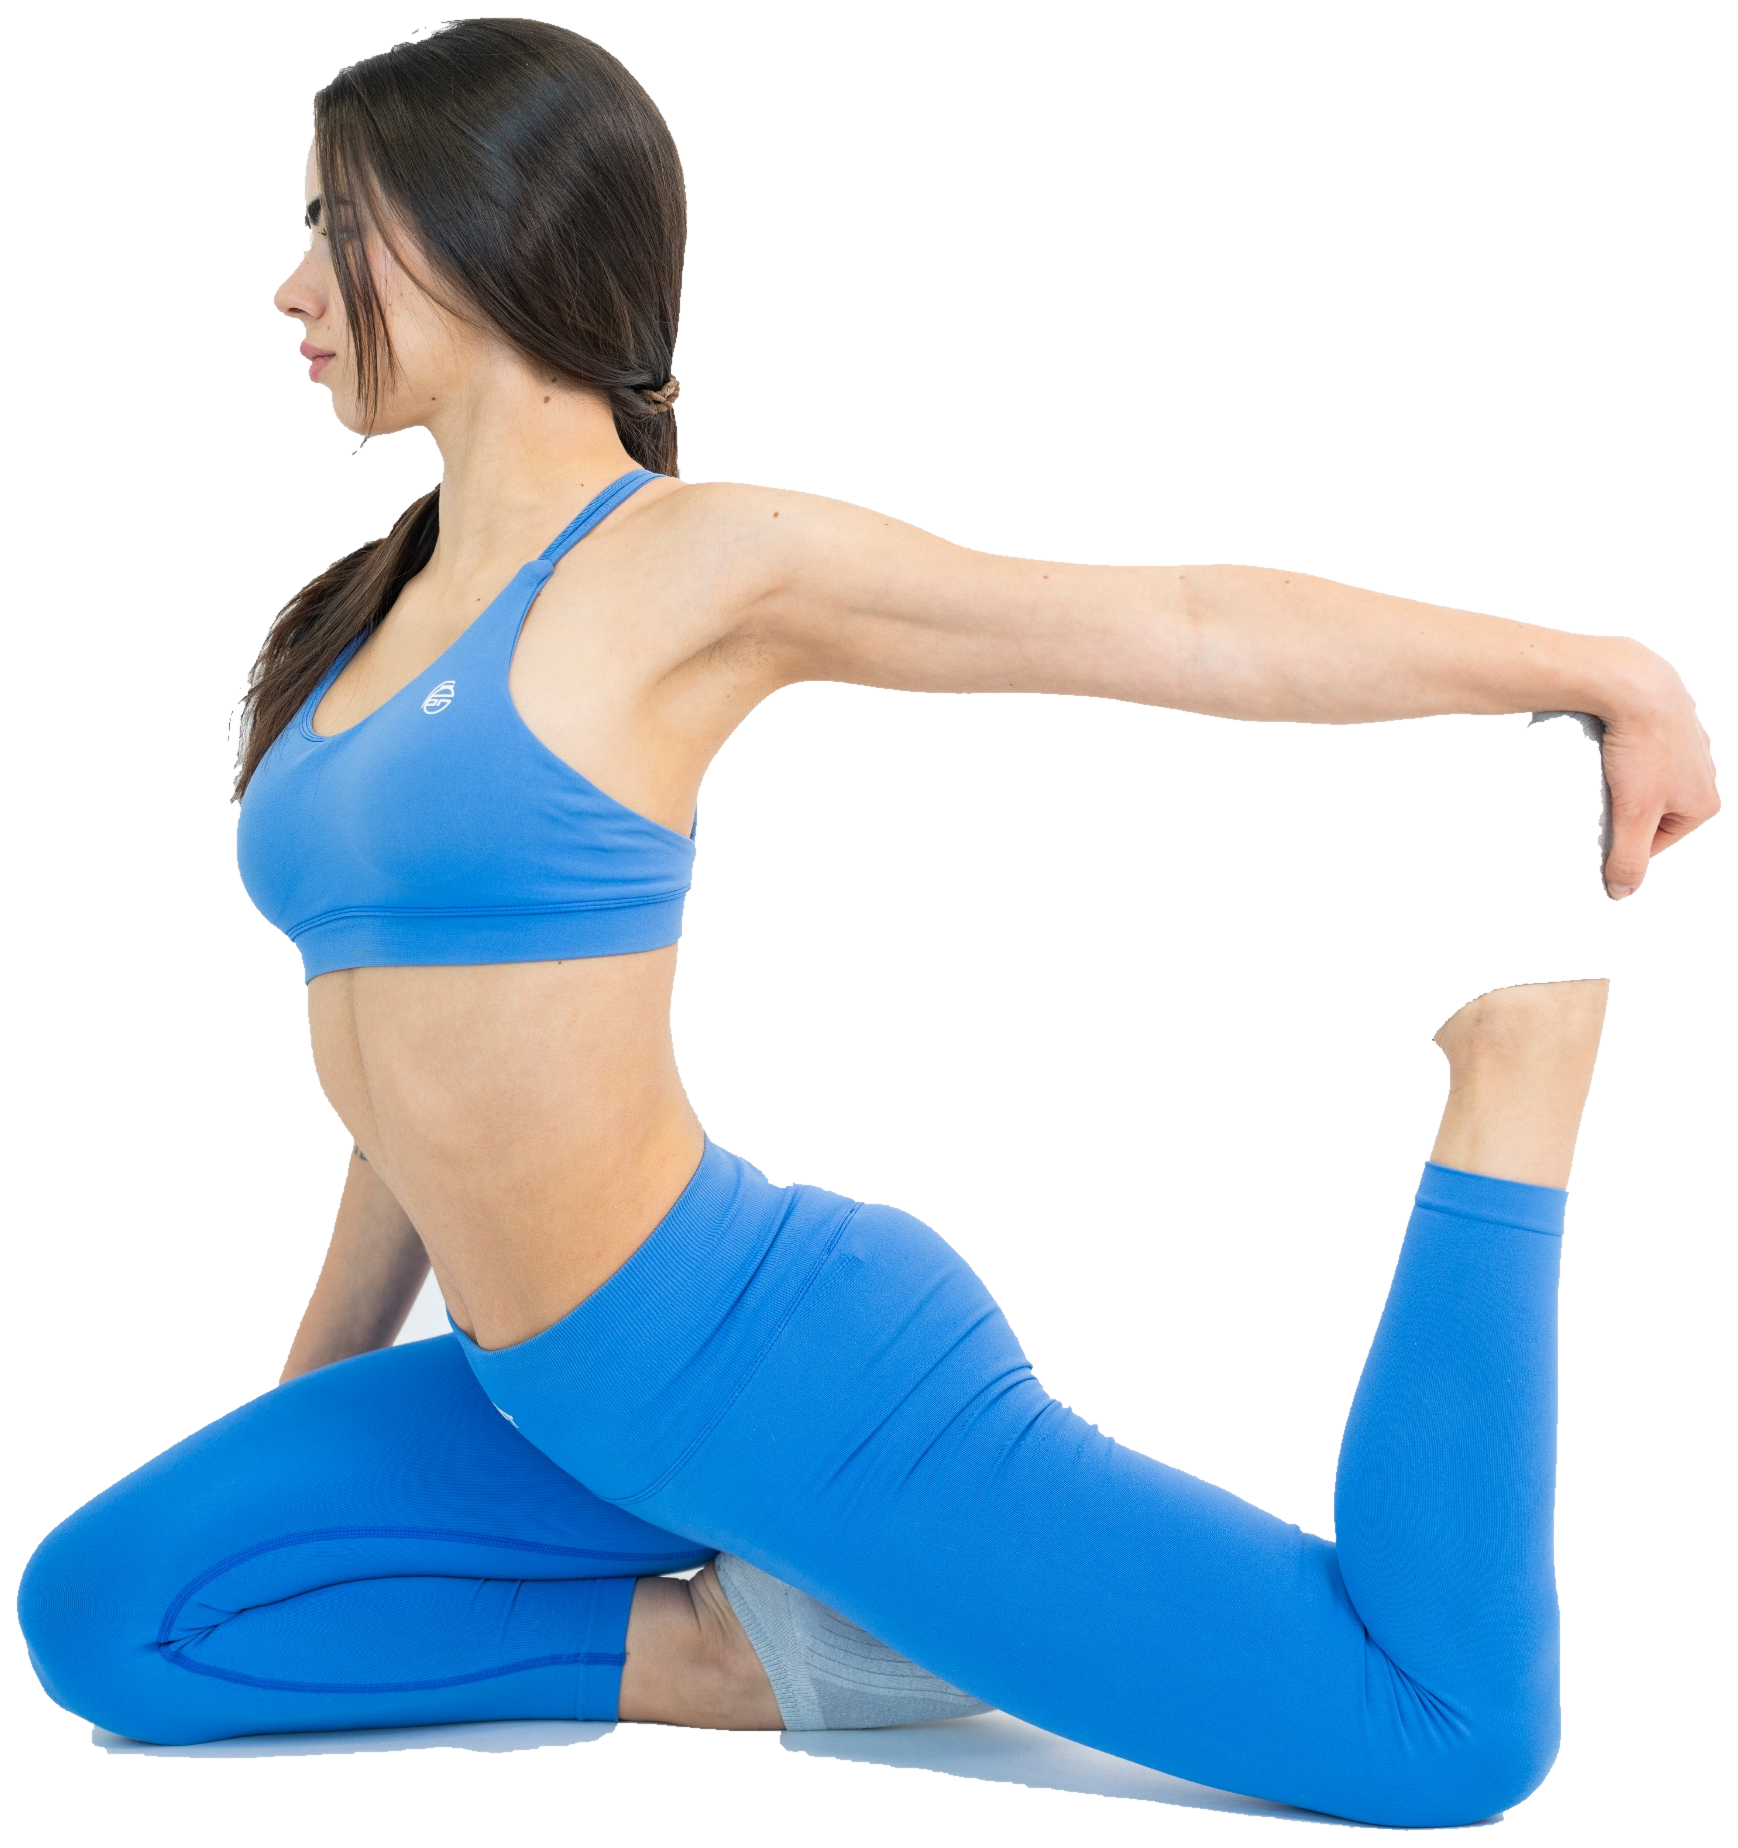
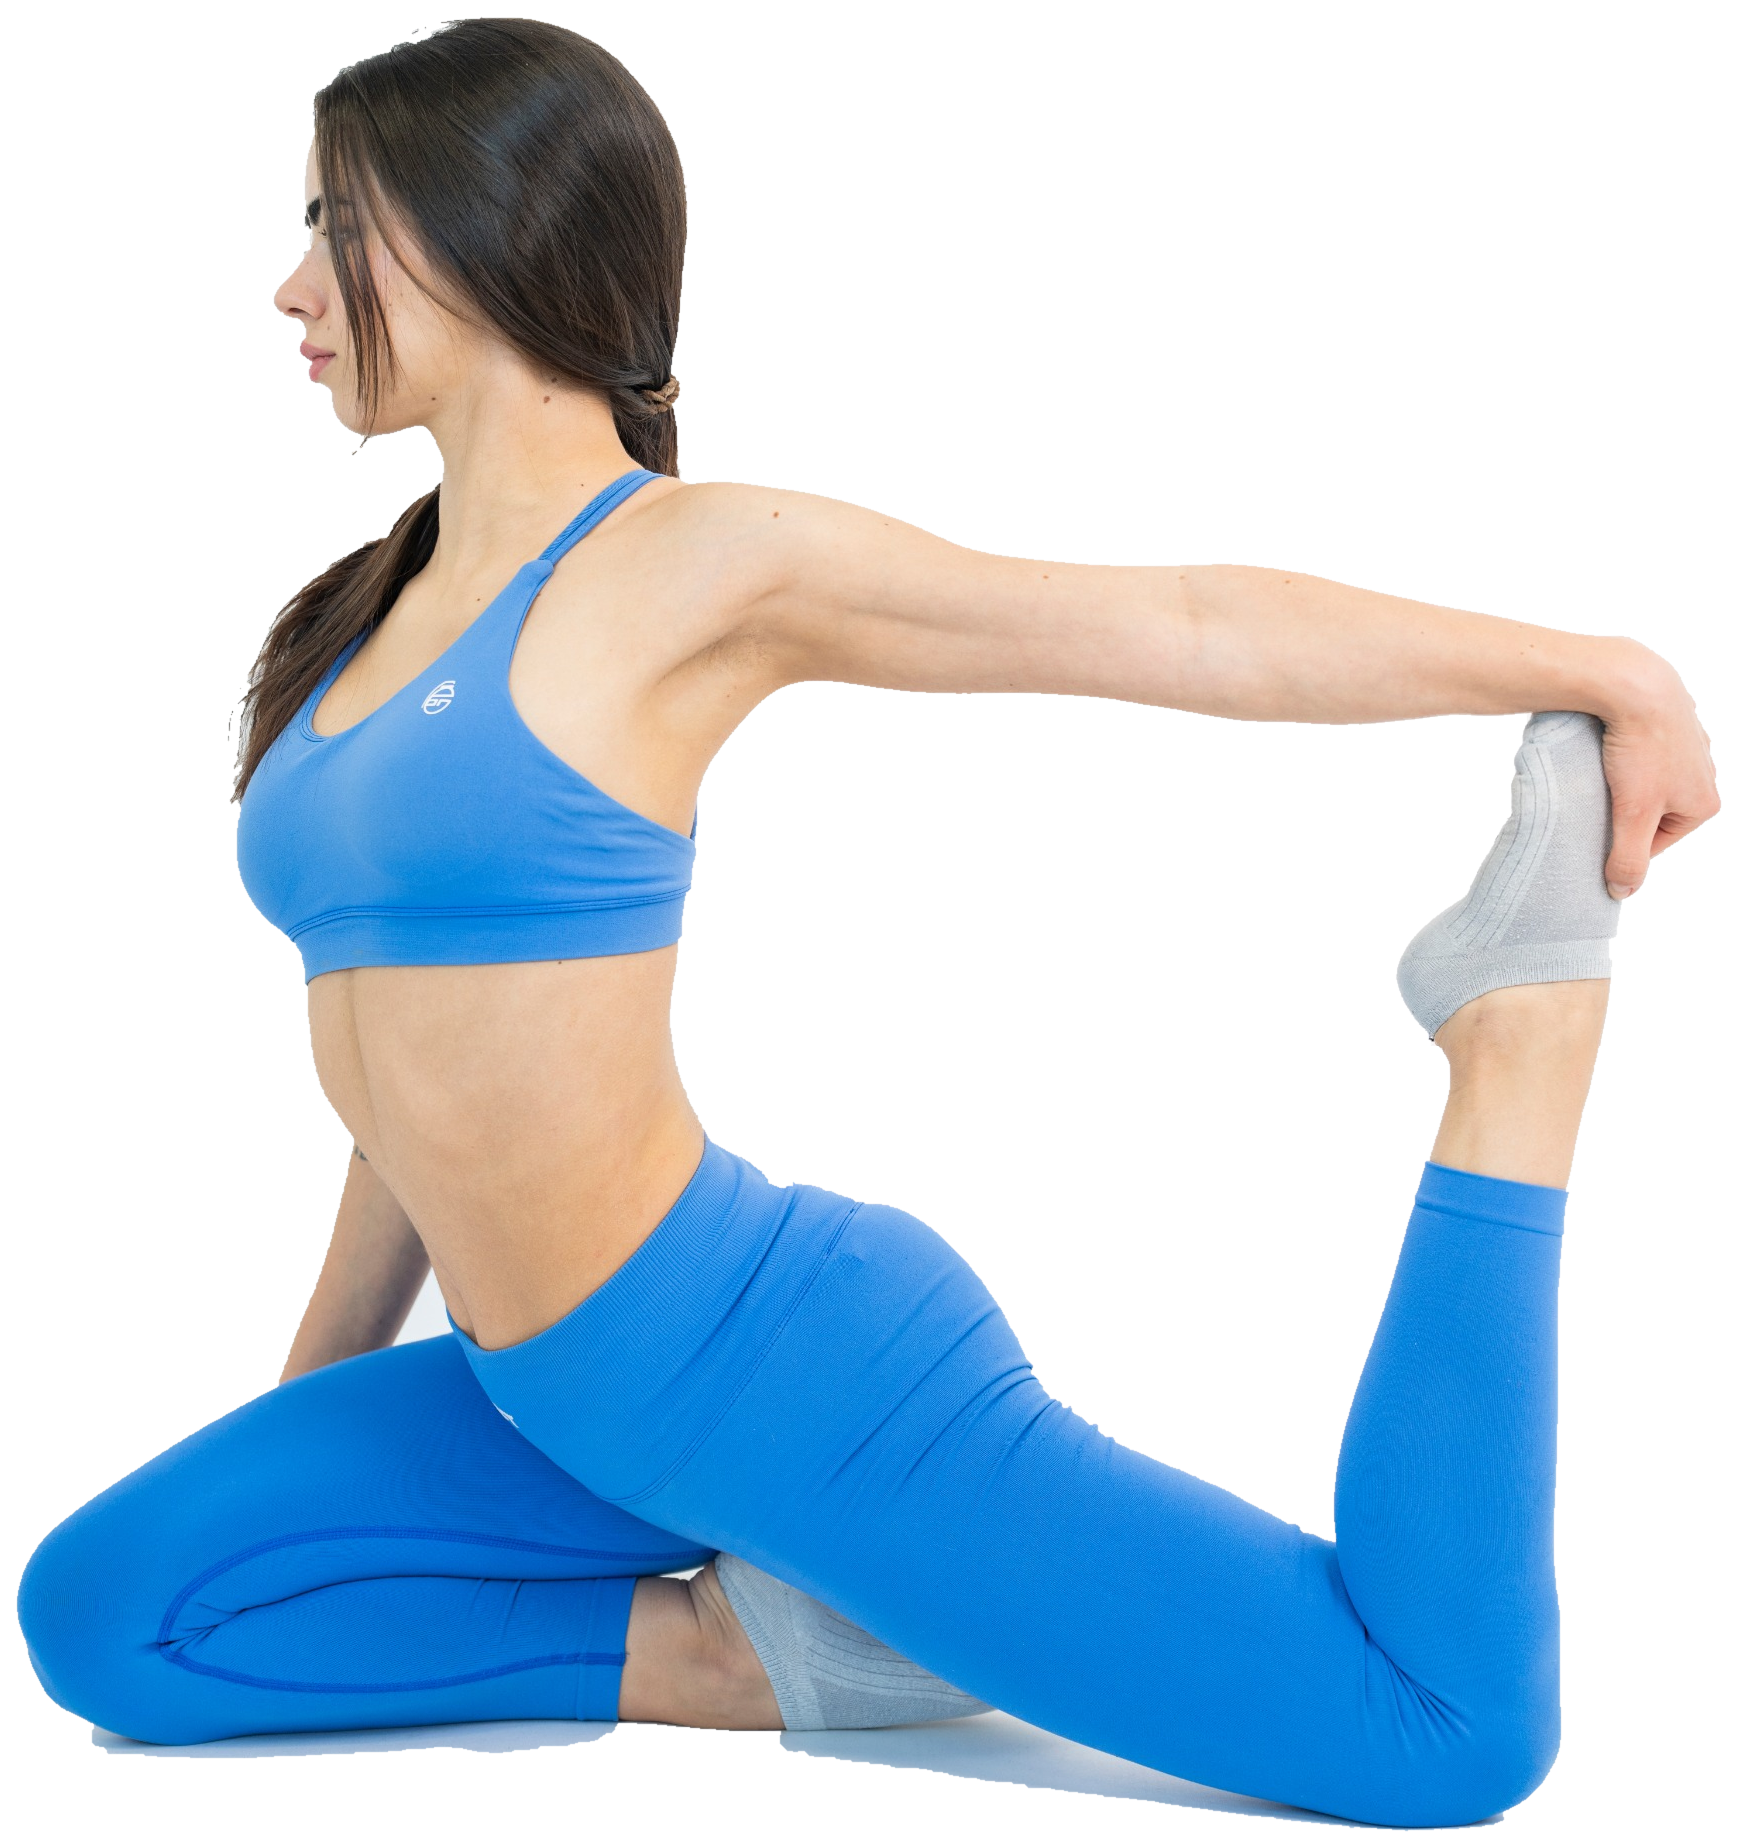
Add files via upload

Changed region(s): [[0.8078, 0.3701, 0.9321, 0.5552]]

diff --git a/risultati.html b/risultati.html
@@ -270,6 +270,13 @@ a{text-decoration:none;color:inherit}
 <meta property="og:type" content="website">
 <meta name="theme-color" content="#25b8cf">
 
+
+<style>
+.feedback-grid{display:grid;grid-template-columns:repeat(3,minmax(0,1fr));gap:24px;margin-top:28px}
+.feedback-card{margin:0;border-radius:18px;overflow:hidden;background:#fff;box-shadow:0 12px 30px rgba(0,0,0,.10)}
+.feedback-card img{display:block;width:100%;height:auto}
+@media(max-width:820px){.feedback-grid{grid-template-columns:1fr;gap:18px}}
+</style>
 </head>
 <body>
 
@@ -307,10 +314,10 @@ a{text-decoration:none;color:inherit}
 <section class="section alt">
  <div class="wrap">
   <h2>Le loro parole</h2>
-  <div class="testimonials">
-   <div class="quote">Spazio per una testimonianza reale o screenshot cliente.</div>
-   <div class="quote">Spazio per una testimonianza reale o screenshot cliente.</div>
-   <div class="quote">Spazio per una testimonianza reale o screenshot cliente.</div>
+  <div class="feedback-grid" aria-label="Feedback clienti">
+   <figure class="feedback-card"><img src="feedback-1.jpg" alt="Feedback cliente 1"></figure>
+   <figure class="feedback-card"><img src="feedback-2.jpg" alt="Feedback cliente 2"></figure>
+   <figure class="feedback-card"><img src="feedback-3.jpg" alt="Feedback cliente 3"></figure>
   </div>
  </div>
 </section>

diff --git a/partner.html b/partner.html
@@ -362,18 +362,6 @@ a{text-decoration:none;color:inherit}
   <div class="photo auto-photo partner-large-photo"><span class="placeholder-label">Spazio per la foto partner</span><img class="user-photo contain-photo" src="partner.jpg" alt="" onerror="this.style.display='none'"></div>
  </div>
 </section>
-
-<section class="section">
-  <div class="wrap">
-    <h2>Le loro parole</h2>
-    <div class="feedback-grid" aria-label="Feedback clienti">
-      <figure class="feedback-card"><img src="feedback-1.jpg" alt="Feedback cliente 1"></figure>
-      <figure class="feedback-card"><img src="feedback-2.jpg" alt="Feedback cliente 2"></figure>
-      <figure class="feedback-card"><img src="feedback-3.jpg" alt="Feedback cliente 3"></figure>
-    </div>
-  </div>
-</section>
-
 </main>
 
 
